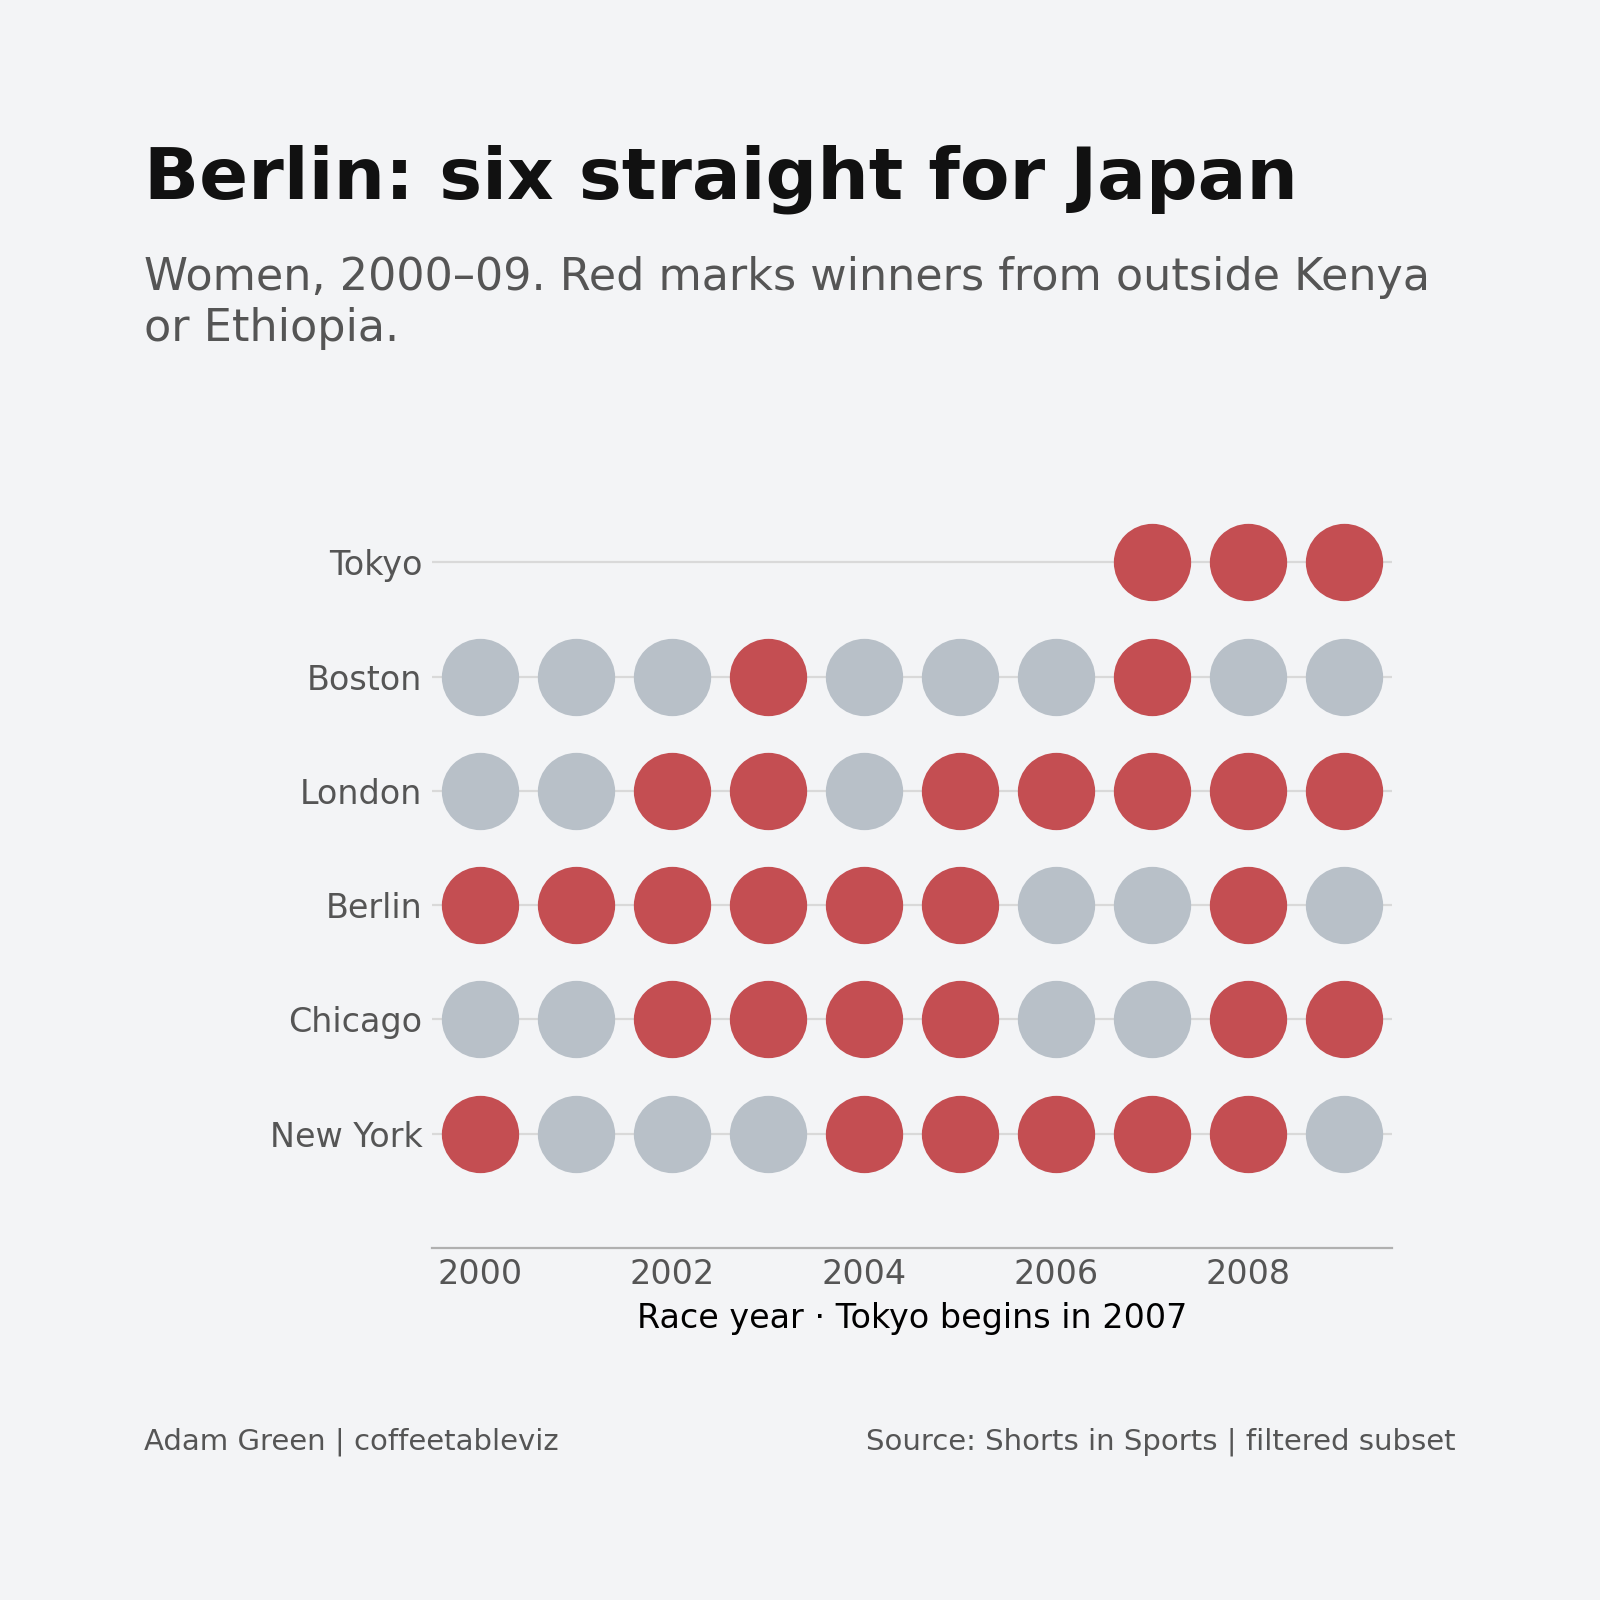
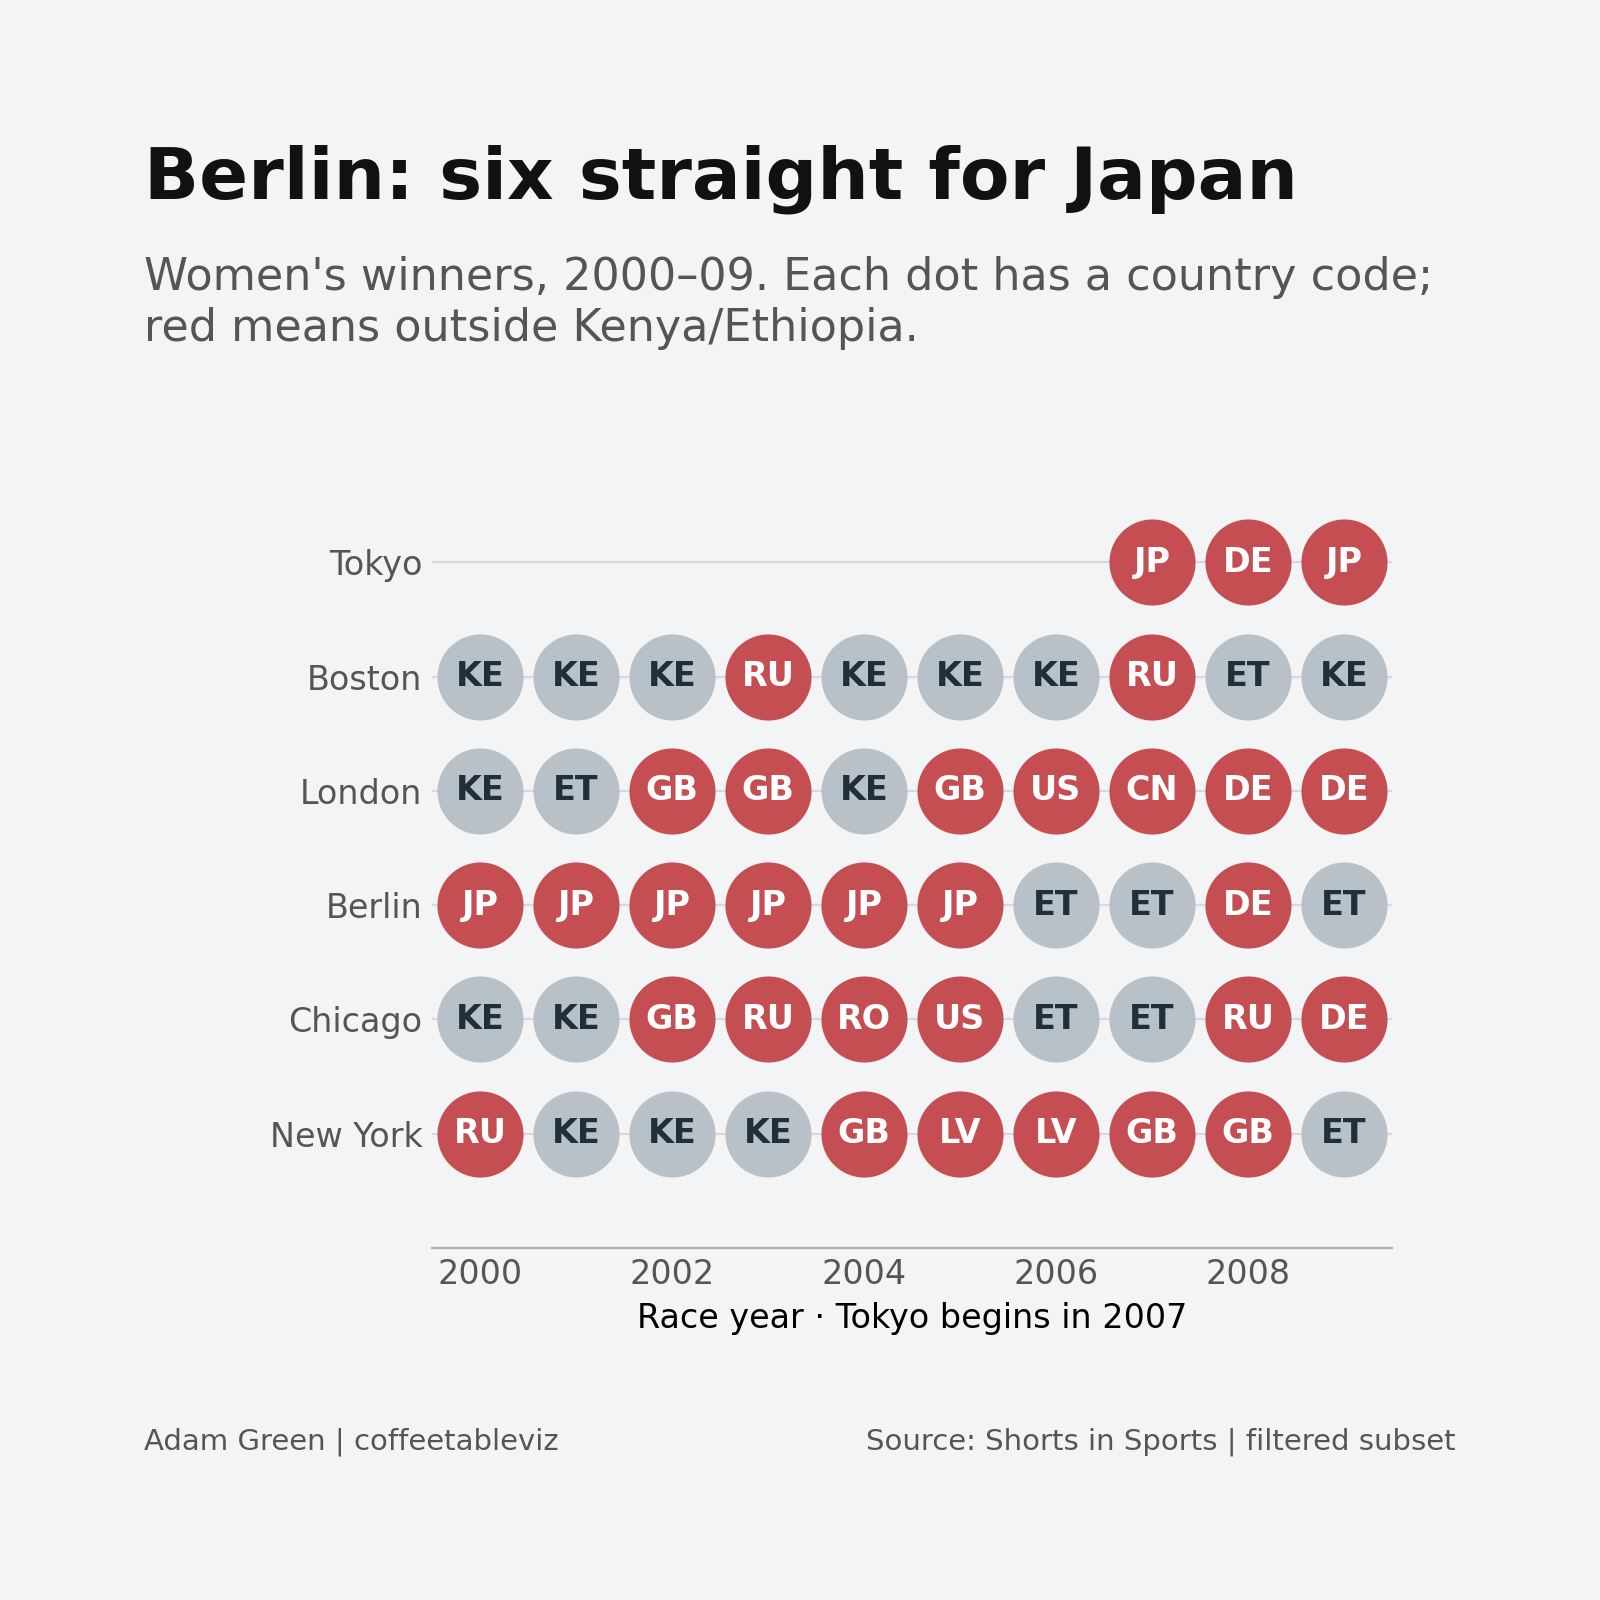
Stage condensed marathon article and new ISO-labelled charts for site review

Changed region(s): [[0.2812, 0.3125, 0.875, 0.75], [0.0938, 0.1562, 0.9062, 0.2188]]

diff --git a/site/_posts/2026-11-13-can-you-find-the-four-outsiders.md b/site/_posts/2026-11-13-can-you-find-the-four-outsiders.md
@@ -6,7 +6,7 @@ date: 2026-11-13 22:30:00 +0000
 author: Adam Green
 category: Sport
 description: "Six straight Japanese wins in Berlin. Then just four winners from outside Kenya and Ethiopia across six major marathons in the 2010s. Where did the red dots go?"
-read_time: "4 minute read"
+read_time: "3 minute read"
 card_image: /assets/charts/marathon-winning-map/01_berlin_six_and_the_world.png
 hero_image: /assets/charts/marathon-winning-map/01_berlin_six_and_the_world.png
 social_image: /assets/charts/marathon-winning-map/01_berlin_six_and_the_world.png
@@ -14,112 +14,59 @@ hero_alt: "Six major city marathons by race and year in the 2000s. Each dot repr
 tags: [marathon, running, sport, data-visualisation, shorts-in-sports]
 published: true
 ---
-
-Berlin, 2005. Mizuki Noguchi crosses the line to win the marathon.
-
-That's **six consecutive Japanese women's victories in Berlin**, stretching back to 2000.
-
-Six years. Six Japanese winners.
-
-It's not quite the picture of marathon dominance I expected to find.
+Berlin, 2005. Mizuki Noguchi wins the women's marathon. That's six straight victories for Japan in this race, dating back to 2000. Six years, six Japanese champions. And a rather different picture from the one we associate with marathon running today.
 
 ## The world still won
 
-Look across six big-city marathons — Tokyo, Boston, London, Berlin, Chicago and New York — in the 2000s.
+Look across six big-city marathons in the 2000s. Every dot is a women's race winner, with a two-letter country code inside. Grey is Kenya or Ethiopia. Red means somewhere else.
 
-Kenya and Ethiopia were already important parts of the picture. But the winners in this dataset came from **ten nationalities**.
+![Women’s winners across six city marathons in 2000–09, each marked with a two-letter country code. Red dots mark 31 wins from countries outside Kenya and Ethiopia out of 53 races, including six straight Japanese wins in Berlin.](/assets/charts/marathon-winning-map/01_berlin_six_and_the_world.png){: .ctv-centred-chart }
 
-Japanese women won eight times. British women won seven. Russia and Germany had their moments, too.
+There's plenty of red. **31 of 53 victories** went to other countries, including eight for Japan and seven for the United Kingdom. Berlin's first six dots are all **JP**. Quite a run, literally.
 
-In the first chart, one dot means one women's race winner. **Red means the winning nationality was outside Kenya or Ethiopia.**
+But take the same races and move the calendar forward ten years.
 
-![Women's winners at six city marathons from 2000 to 2009: 31 of 53 dots are red for nationalities outside Kenya and Ethiopia, including Berlin's consecutive Japanese winners.](/assets/charts/marathon-winning-map/01_berlin_six_and_the_world.png){: .ctv-centred-chart }
+## Now find the four
 
-The red dots aren't especially hard to find.
+Same six race rows. Same colours, same country codes. One dot for every completed race. How many red dots can you spot?
 
-**31 of 53 women's victories** went to countries outside Kenya and Ethiopia.
+![The same races in 2010–19, with country codes inside each winner dot: four red exceptions out of 59 race winners, at Tokyo 2010 and 2011, New York 2017, and Boston 2018.](/assets/charts/marathon-winning-map/02_find_the_four.png){: .ctv-centred-chart }
 
-And look at Berlin's row. The first six dots belong to Japanese winners — a consecutive run confirmed in [Berlin's historical results](https://www.bmw-berlin-marathon.com/fileadmin/media/events/berlinmarathon/fotos/Presse/Mediaguide/Statistiken/BM25AlleSiegerInnenBERLIN-MARATHON.pdf).
+**Four. Out of 59.** Two at Tokyo — Alevtina Biktimirova (Russia, 2010) and Noriko Higuchi (Japan, 2011) — then Shalane Flanagan (New York, 2017) and Desiree Linden (Boston, 2018), both from the US.
 
-Now keep that chart in mind.
+Higuchi was [awarded the 2011 title](https://www.marathon.tokyo/en/about/past/2011/) after the original winner's disqualification. And that blank New York spot in 2012? [Hurricane Sandy cancelled the race](https://worldathletics.org/news/news/new-york-marathon-cancelled). Neither is a missing value dressed up as a result.
 
-## Can you find the four?
+## The bigger shift wasn't the men's
 
-Fast-forward to 2010–19.
+The next chart steps back to compare men and women across the two decades. The measure is the share of wins **outside Kenya and Ethiopia** — not the share of runners taking part.
 
-The next chart uses **the same six race rows, the same decade-wide layout and the same colours**. One dot, one winner. The red still means someone from outside Kenya or Ethiopia.
+![Shares of wins by non-Kenyan/non-Ethiopian athletes across the same six races. Women: 58.5% in 2000–09 to 6.8% in 2010–19, down 51.7 percentage points. Men: 22.6% to 10.2%, down 12.5 points.](/assets/charts/marathon-winning-map/03_women_changed_most.png){: .ctv-centred-chart }
 
-**How many red dots can you spot?**
+For women, that share fell from **58.5% to 6.8%**. A drop of **51.7 percentage points**. For men it went from **22.6% to 10.2%** — just **12.5 points**. Men's winning nationalities were concentrated already. Women's changed much more dramatically.
 
-![The same six city marathons from 2010 to 2019, with four red dots among 59 women's winners. The red exceptions occur at Tokyo in 2010 and 2011, New York in 2017 and Boston in 2018.](/assets/charts/marathon-winning-map/02_find_the_four.png){: .ctv-centred-chart }
+## So where did the red go?
 
-There are only **four red dots among 59 completed races**.
+The data tells us *what* happened, not *why*. But there are a few clues. Historian [Michelle Sikes](https://www.psu.edu/news/research/story/qa-kenyas-trailblazing-women-runners-chart-course-success-new-book) describes how Kenyan women gained more access to professional racing after facing barriers that men didn't face to the same degree.
 
-They belong to **Alevtina Biktimirova** (Tokyo 2010, Russia), **Noriko Higuchi** (Tokyo 2011, Japan), **Shalane Flanagan** (New York 2017, United States) and **Desiree Linden** (Boston 2018, United States).
+Then there's the depth of competition. [World Athletics](https://worldathletics.org/news/news/2010-end-of-year-reviews-road-runningrace) counted **18 Ethiopian women** under 2:26 for a marathon in 2010, up from eight the year before. By [2011](https://worldathletics.org/news/news/2011-end-of-year-reviews-road-runningrace), Kenyan and Ethiopian women occupied **16 of the world's top 20** marathon rankings. Meanwhile, Japan was working out how to follow an exceptional generation of champions.
 
-There's an interesting wrinkle in Higuchi's case. The original 2011 Tokyo winner was disqualified, so [Tokyo's official record](https://www.marathon.tokyo/en/about/past/2011/) recognises Higuchi as champion. Excluding everything with a disqualification note would have made the chart wrong.
-
-The New York gap in 2012 has a different explanation: the race was [cancelled after Hurricane Sandy](https://worldathletics.org/news/news/new-york-marathon-cancelled). It isn't a missing winner that we've quietly counted as zero.
-
-And the red has almost disappeared.
-
-But there's another twist.
-
-## The bigger shift wasn't in the men's race
-
-Men's winning nationalities were already concentrated in the 2000s. Only **12 of 53** men's winners in these races came from outside Kenya and Ethiopia.
-
-For women, the equivalent figure was **31 of 53**.
-
-In the following decade, those figures were **six of 59 men** and **four of 59 women**.
-
-The contrast is clearer when both are plotted on the same percentage scale.
-
-![The share of marathon victories from outside Kenya and Ethiopia in the 2000s versus 2010s: women's share falls from 58.5 to 6.8 percent, while men's falls from 22.6 to 10.2 percent. The y-axis starts at zero.](/assets/charts/marathon-winning-map/03_women_changed_most.png){: .ctv-centred-chart }
-
-The women's share fell from **58.5% to 6.8%** — a **51.7 percentage-point drop**.
-
-The men's fell from **22.6% to 10.2%** — **12.5 points**.
-
-The men's map was narrow to begin with. The women's changed dramatically.
-
-It's the sort of difference you might never notice if you only compared today's winners, or only looked at the fastest times.
-
-## So why did the red dots disappear?
-
-The charts show **what** changed. They don't tell us **why**. But looking beyond the dataset reveals a more interesting story than one country simply getting faster.
-
-**First, the route into elite racing widened for women.** Historian [Michelle Sikes](https://www.psu.edu/news/research/story/qa-kenyas-trailblazing-women-runners-chart-course-success-new-book) describes how Kenyan women historically faced more barriers to international competition than men. As distance running became a paid profession in the late 1980s and 1990s, more women were able to pursue it as a career. The men's success had a substantial head start.
-
-**Then came strength in numbers.** In its [2010 season review](https://worldathletics.org/news/news/2010-end-of-year-reviews-road-runningrace), World Athletics counted **18 Ethiopian women** running a marathon in under 2 hours 26 minutes, up from **eight in 2009**. In [2011](https://worldathletics.org/news/news/2011-end-of-year-reviews-road-runningrace), Kenya and Ethiopia supplied **16 of the world's top 20 women marathon runners**. Those are global performance figures, not results from our six selected races, but they suggest a much deeper pool of women capable of challenging for wins.
-
-**Meanwhile, Japan's golden generation was changing.** By 2010, [World Athletics was asking](https://worldathletics.org/news/news/2010-end-of-year-reviews-road-runningrace) who would follow the likes of Naoko Takahashi and Mizuki Noguchi at the top of international marathons. That doesn't mean Japanese women stopped running. It means the remarkable generation behind those early Berlin dots wasn't so easily replaced.
-
-Altitude, training, running economy and economic opportunity may all matter. A [review of Kenyan and Ethiopian running research](https://pubmed.ncbi.nlm.nih.gov/22634972/) found no single genetic or physiological explanation for their success. The bigger picture is more complicated—and more human.
-
-We can't assign a percentage of this change to any one cause. To do that we'd need the starting fields, finishing times and access to elite competition over the years, not just the winners.
-
-But here's the intriguing possibility: **the map of winners may have narrowed partly because the pathway into world-class racing was opening up for more women.**
+None of that proves what caused these particular results. We'd need starting fields and a lot more besides. But the possibility is intriguing: **the winners' map may have narrowed partly because more women had a route into world-class racing.**
 
 ## TLDR
 
-**Six straight Japanese women's wins in Berlin. A decade later, just four winners from outside Kenya and Ethiopia across our six marathons. The women's winning-nationality mix changed far more sharply than the men's.**
-
-The wider research suggests a combination of **greater professional opportunity, a deeper East African women's talent pool and a changing Japanese elite generation**. Our charts show the shift; they cannot prove exactly what caused it.
+Six straight Japanese women's wins at Berlin became just **four non-Kenyan/non-Ethiopian women's wins** across six big-city marathons in the 2010s. The shift was much bigger for women than men. Wider opportunity and a deeper elite field may help explain it, but the charts alone can't prove why.
 
 ---
 
 ### A note on the numbers
 
-These charts are based on the [Shorts in Sports marathon winners dataset](https://github.com/shortsinsports/Data/blob/4ea0ca9e403d706a734d41088ad63e571ab0ca21/SIS-marathon_major_winners_2000_2026.csv), processed and reproduced in [Coffeetableviz's chart-templates repository](https://github.com/adamgreen1708/chart-templates/tree/main/archive/projects/2026-11-marathon-winning-map). The sample covers **six historical major marathons**, not every present-day World Marathon Major.
+The Bauhaus feature image covers **2000–26**: Kenya **68 women's wins**, Ethiopia **43**, together **111 of 149** in the source's six-race nationality summary. The three charts below zoom in on **2000–19** to compare two complete decades; the denominators are different. The artwork is a decorative stripe study, not a scaled bar chart.
 
-The comparison uses **112 completed, matched race-years** in the supplied file: **53 in 2000–09 and 59 in 2010–19**. Both men's and women's results are included for each race-year. Tokyo enters the sample only in 2007; cancelled races, notably New York 2012, are excluded. Nationality is the source's recorded nationality of the **winner**, not the birthplace of athletes or the nationality of everyone who ran.
+The three charts use the pinned [Shorts in Sports winners dataset](https://github.com/shortsinsports/Data/blob/4ea0ca9e403d706a734d41088ad63e571ab0ca21/SIS-marathon_major_winners_2000_2026.csv) for **six historical major races**, not all today's World Marathon Majors. The comparison covers **53 completed race-years in 2000–09 and 59 in 2010–19**. Tokyo enters in 2007; cancelled New York 2012 is excluded. Country codes are ISO 3166-1 alpha-2, so the UK is **GB**.
 
-**Important limitation:** this is a **source-derived analysis, not a fully independently verified official-results database**. The repository's checks establish row and calculation integrity, and the eight explicitly flagged source entries and highlighted exceptions were compared with organisers' results. However, **216 completed source entries** remain classified *Not independently checked* in the underlying 2000–19 files. The charts describe the supplied sample; they do not establish what happened across all marathons or all runners.
+The [GitHub data QA](https://github.com/adamgreen1708/chart-templates/blob/main/archive/projects/2026-11-marathon-winning-map/data/qa_report.json) checks the records and calculations and verifies explicitly flagged results. It is **not a complete official-results audit**: 216 completed source entries remain labelled *Not independently checked*. This is a story about winning nationalities in the supplied races, not all competitors or the causes of success.
 
-For the exact derivation and audit boundaries, see the [reproducible data QA report](https://github.com/adamgreen1708/chart-templates/blob/main/archive/projects/2026-11-marathon-winning-map/data/qa_report.json) and [source-event evidence notes](https://github.com/adamgreen1708/chart-templates/blob/main/archive/projects/2026-11-marathon-winning-map/review/source_event_qa.md).
-
-**Data:** [Shorts in Sports](https://github.com/shortsinsports/Data/blob/4ea0ca9e403d706a734d41088ad63e571ab0ca21/SIS-marathon_major_winners_2000_2026.csv)  
+**Data:** Shorts in Sports  
 **Analysis and visualisation:** coffeetableviz
 
 *simple charts clear stories.*

diff --git a/archive/projects/2026-11-marathon-winning-map/review/bauhaus_feature_approval.md b/archive/projects/2026-11-marathon-winning-map/review/bauhaus_feature_approval.md
@@ -1,0 +1,15 @@
+# Bauhaus feature — publication handoff
+
+**Status: received, checked, but binary not yet in PR. Do not merge until exact image is included.**
+
[1 lines of base64/hex data omitted]
+- User supplied a dark charcoal poster with cream lines and restrained gold accent, titled `Major Marathons | Wins by Nationality (Women)`. It is an *explicit owner-approved exception* to the default light-grey feature-art house palette. Preserve the uploaded pixels rather than generating a different illustration.
+- Data source: `data/marathon-majors/marathon_major_wins_by_nationality_women.csv` at commit `7fd9a2e6fea602dab07f802bac95254c69357e9c`. Counts sum to **149**, including Kenya **68**, Ethiopia **43**, Japan **9**, United Kingdom **7**, Russia **6**, Germany **5**, United States **4**, Latvia **2**, Netherlands **2**, China **1**, Israel **1**, Romania **1**. Combined Kenya/Ethiopia **111/149 (74.5%)**.
+- Image depicts the six *historic* big-city marathons across **2000–26**; the article's statistical comparisons intentionally cover two complete decades **2000–09** and **2010–19** only. This is noted in the revised article.
+- Planned exact asset path: `site/assets/features/marathon-nationalities-bauhaus-2026.png`.
+- Planned frontmatter changes when the asset has been uploaded: set `hero_image`, `card_image` and `social_image` all to that PNG path. Suggested alt: `Dark Bauhaus-style graphic of women's total wins by nationality across six major city marathons, 2000–26. Kenya leads with 68, Ethiopia has 43, and the next country is Japan with nine.`
+- **Important:** Current PR holds a valid *existing* hero pointer until the uploaded image is present. Do not merge this preview as the finished publication.
+
+## Final gate
+
+Upload the **exact user PNG** (or an explicitly owner-approved lossless format equivalent), validate its SHA and readable preview, update frontmatter, check Jekyll article HTML and three new site chart assets, run production build, compare diff, obtain final editorial approval, then merge and verify Pages deployment.
